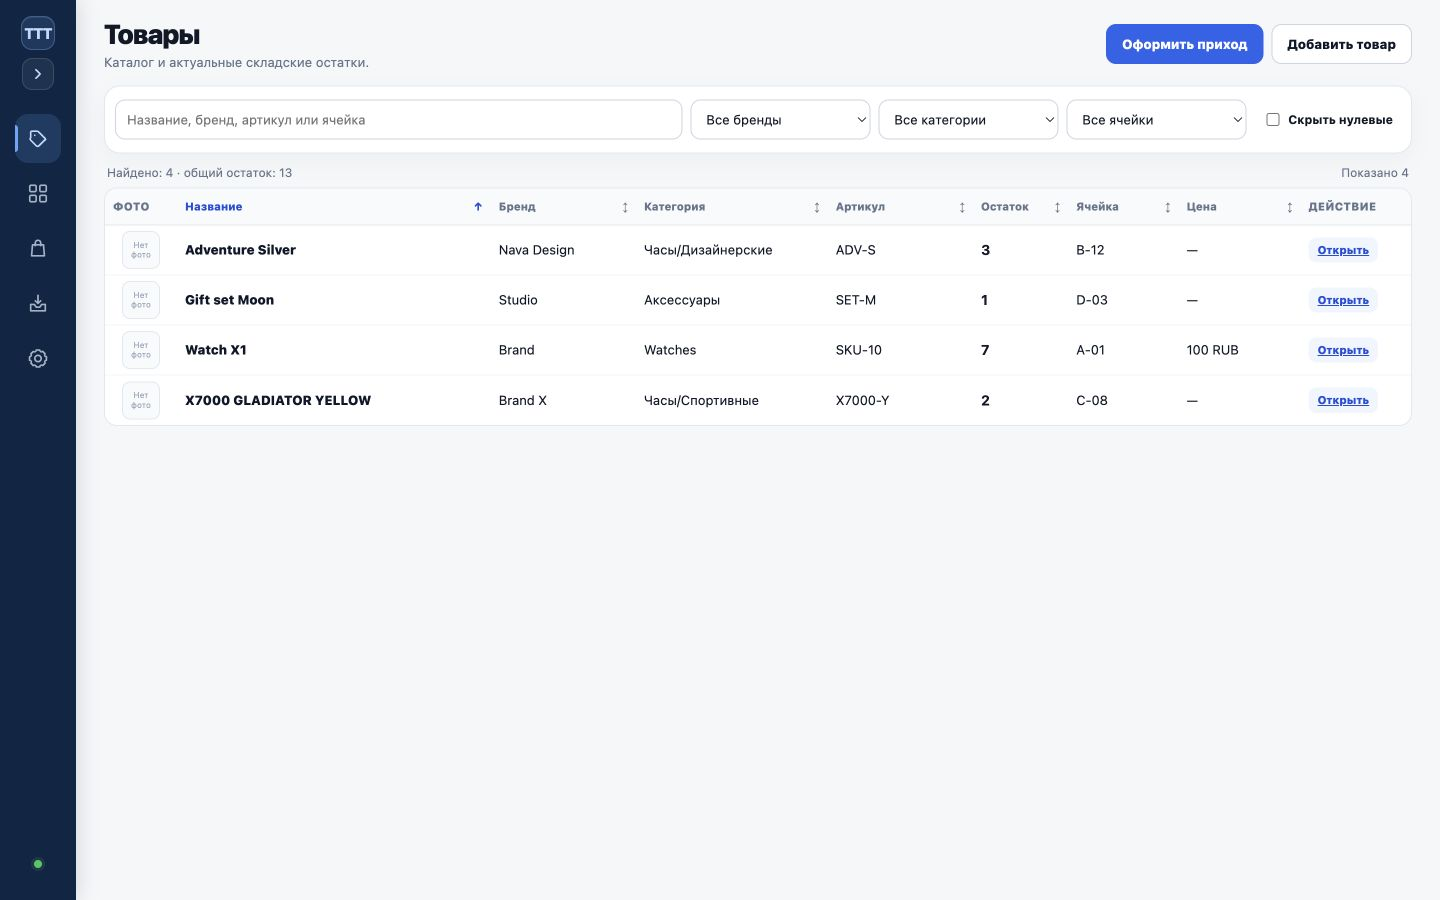
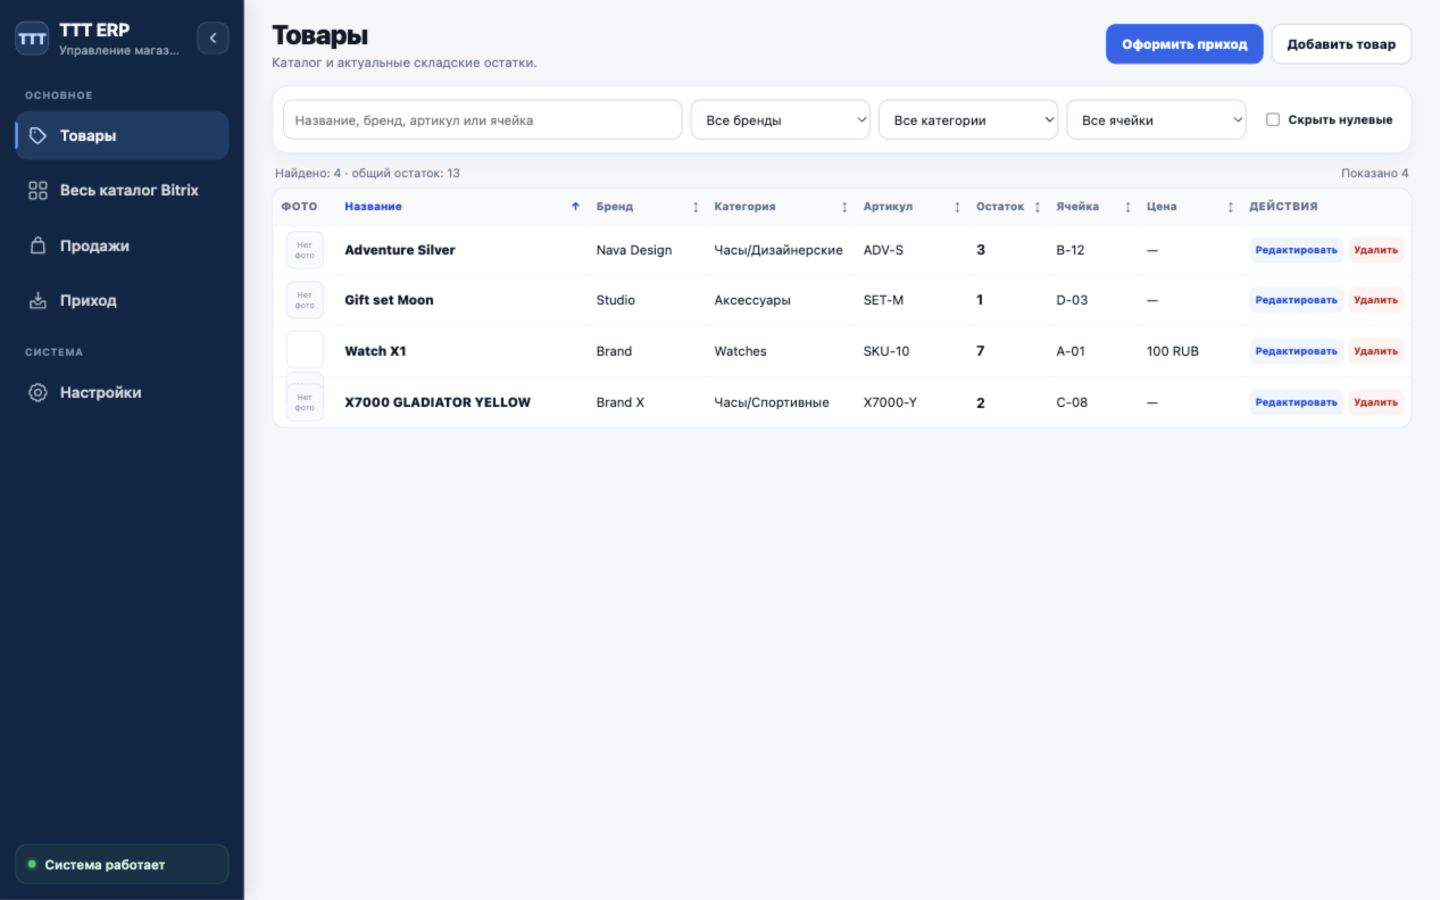
Restore product edit and delete actions

diff --git a/app/templates/_excel_products_results.html b/app/templates/_excel_products_results.html
@@ -8,21 +8,21 @@
     <table class="products-table" data-products-table>
         <colgroup>
             <col data-column="photo" style="width:62px">
-            <col data-column="name" style="width:270px">
-            <col data-column="brand" style="width:125px">
-            <col data-column="category" style="width:165px">
-            <col data-column="article" style="width:125px">
-            <col data-column="stock" style="width:82px">
-            <col data-column="cell" style="width:95px">
-            <col data-column="price" style="width:105px">
-            <col data-column="actions" style="width:95px">
+            <col data-column="name" style="width:245px">
+            <col data-column="brand" style="width:115px">
+            <col data-column="category" style="width:145px">
+            <col data-column="article" style="width:110px">
+            <col data-column="stock" style="width:78px">
+            <col data-column="cell" style="width:88px">
+            <col data-column="price" style="width:100px">
+            <col data-column="actions" style="width:165px">
         </colgroup>
         <thead><tr>
             <th data-column-key="photo">Фото</th>
             {% for field, label in [('name', 'Название'), ('brand', 'Бренд'), ('category', 'Категория'), ('article', 'Артикул'), ('stock', 'Остаток'), ('cell', 'Ячейка'), ('price', 'Цена')] %}
             <th data-column-key="{{ field }}"><button class="products-sort-button{% if catalog.sort_by == field %} is-active{% endif %}" type="button" data-sort-field="{{ field }}">{{ label }} <span aria-hidden="true">{% if catalog.sort_by == field %}{{ '↑' if catalog.sort_dir == 'asc' else '↓' }}{% else %}↕{% endif %}</span></button></th>
             {% endfor %}
-            <th data-column-key="actions">Действие</th>
+            <th data-column-key="actions">Действия</th>
         </tr></thead>
         <tbody>
         {% for item in catalog['items'] %}
@@ -38,7 +38,16 @@
             <td class="products-stock-cell{% if item.stock <= 0 %} is-zero{% endif %}"><strong>{{ '%g'|format(item.stock) }}</strong></td>
             <td>{{ item.cell or '—' }}</td>
             <td>{% if item.bitrix_price_amount %}{{ item.bitrix_price_amount }} {{ item.bitrix_price_currency }}{% else %}—{% endif %}</td>
-            <td><a class="products-action-button" data-product-detail-link href="{{ url_for('excel_product_page', product_id=item.id, return_to=current_products_url) }}">Открыть</a></td>
+            <td>
+                <div class="products-actions">
+                    <a class="products-action-button" data-product-detail-link href="{{ url_for('excel_product_page', product_id=item.id, return_to=current_products_url) }}">Редактировать</a>
+                    <form class="products-action-form" method="post" action="{{ url_for('excel_product_delete', product_id=item.id) }}" onsubmit="return confirm('Удалить этот товар? Действие нельзя отменить.');">
+                        <input type="hidden" name="return_to" value="{{ current_products_url }}">
+                        <input type="hidden" name="confirm_delete" value="1">
+                        <button class="products-action-button products-action-delete" type="submit">Удалить</button>
+                    </form>
+                </div>
+            </td>
         </tr>
         {% endfor %}
         </tbody>

diff --git a/app/templates/excel_products.html b/app/templates/excel_products.html
@@ -41,7 +41,10 @@
         .products-mobile-meta { display: none; margin-top: 3px; color: #64748b; font-size: 10px; }
         .products-stock-cell strong { font-size: 14px; }
         .products-stock-cell.is-zero strong { color: #94a3b8; }
-        .products-action-button { display: inline-flex; padding: 6px 9px; border-radius: 8px; background: #eff6ff; color: #1d4ed8; font-size: 11px; font-weight: 800; }
+        .products-actions { display: flex; align-items: center; gap: 4px; }
+        .products-action-form { margin: 0; }
+        .products-action-button { display: inline-flex; min-height: 26px; align-items: center; padding: 4px 6px; border: 0; border-radius: 7px; background: #eff6ff; color: #1d4ed8; font: inherit; font-size: 10px; font-weight: 800; line-height: 1; text-decoration: none; cursor: pointer; }
+        .products-action-delete { background: #fef2f2; color: #b91c1c; }
         .products-pagination { display: flex; justify-content: space-between; align-items: center; margin-top: 10px; }
         @media (max-width: 1080px) {
             .products-filter-form { grid-template-columns: minmax(240px, 1fr) repeat(2, minmax(120px, 1fr)); }
@@ -74,6 +77,10 @@
                 <a class="button" href="/warehouse?open_add=1#warehouseAddCard">Добавить товар</a>
             </div>
         </div>
+
+        {% if request.args.get('message') %}
+        <div class="archive-alert{% if request.args.get('notice') == 'success' %} success-alert{% endif %}" role="alert">{{ request.args.get('message') }}</div>
+        {% endif %}
 
         <section class="panel products-toolbar">
             <form id="productsFilterForm" class="products-filter-form" method="get" action="{{ url_for('excel_products_page') }}">
@@ -184,7 +191,11 @@
         const columns = Array.from(table.querySelectorAll("col[data-column]"));
         const headers = Array.from(table.querySelectorAll("thead th[data-column-key]"));
         const saved = storedWidths();
-        columns.forEach(function (column) { if (saved[column.dataset.column]) column.style.width = saved[column.dataset.column] + "px"; });
+        columns.forEach(function (column) {
+            if (column.dataset.column !== "actions" && saved[column.dataset.column]) {
+                column.style.width = saved[column.dataset.column] + "px";
+            }
+        });
         headers.slice(0, -1).forEach(function (header, index) {
             const handle = document.createElement("span");
             handle.className = "products-column-resize";

diff --git a/tests/test_excel_product_catalog.py b/tests/test_excel_product_catalog.py
@@ -391,6 +391,111 @@ class ExcelProductCatalogTest(unittest.TestCase):
         moysklad.assert_not_called()
         bitrix.assert_not_called()
 
+    def test_product_actions_use_edit_form_and_confirmed_delete_urls(self):
+        self.apply_initial()
+        product_id = self.catalog.list_products(query="Watch X1")["items"][0]["id"]
+        from app import web
+        web.app.config["TESTING"] = True
+        with mock.patch.dict("os.environ", {"CATALOG_DATABASE_PATH": str(self.path)}):
+            response = web.app.test_client().get("/products?per_page=100")
+        rendered = response.get_data(as_text=True)
+        self.assertEqual(response.status_code, 200)
+        self.assertIn(
+            '<a class="products-action-button" data-product-detail-link '
+            'href="/products/{}?return_to='.format(product_id),
+            rendered,
+        )
+        self.assertIn(
+            'action="/products/{}/delete"'.format(product_id), rendered
+        )
+        self.assertIn(">Редактировать</a>", rendered)
+        self.assertIn(">Удалить</button>", rendered)
+        self.assertIn("return confirm('Удалить этот товар?", rendered)
+        self.assertNotIn(">Открыть</a>", rendered)
+
+    def test_product_delete_requires_confirmation_and_blocks_audit_links(self):
+        self.apply_initial()
+        product_id = self.catalog.list_products(query="Watch X1")["items"][0]["id"]
+        from app import web
+        web.app.config["TESTING"] = True
+        empty_references = (
+            mock.patch.object(web, "load_manual_sales", return_value=[]),
+            mock.patch.object(web, "load_stock_operations", return_value=[]),
+            mock.patch.object(web, "load_receipts", return_value=[]),
+        )
+        with mock.patch.dict("os.environ", {"CATALOG_DATABASE_PATH": str(self.path)}), \
+                empty_references[0], empty_references[1], empty_references[2]:
+            client = web.app.test_client()
+            missing_confirmation = client.post(
+                "/products/{}/delete".format(product_id),
+                data={"return_to": "/products"},
+                follow_redirects=True,
+            )
+            blocked = client.post(
+                "/products/{}/delete".format(product_id),
+                data={"return_to": "/products", "confirm_delete": "1"},
+                follow_redirects=True,
+            )
+        self.assertIn(
+            "требуется явное подтверждение",
+            missing_confirmation.get_data(as_text=True),
+        )
+        self.assertIn("Товар нельзя удалить", blocked.get_data(as_text=True))
+        self.assertIsNotNone(self.catalog.get_product(product_id))
+
+    def test_product_delete_removes_only_unreferenced_zero_stock_card(self):
+        self.service.apply(
+            [result(2, "Unused zero", 0)], "5" * 64, "unused-zero.xlsx"
+        )
+        product_id = self.catalog.list_products(query="Unused zero")["items"][0]["id"]
+        with self.database.connect() as connection:
+            connection.execute(
+                "DELETE FROM catalog_excel_batch_rows WHERE product_id = ?",
+                (product_id,),
+            )
+        from app import web
+        web.app.config["TESTING"] = True
+        related_payloads = (
+            ([{"product_id": str(product_id)}], [], []),
+            ([], [{"product_id": str(product_id)}], []),
+            ([], [], [{"positions": [{"product_id": str(product_id)}]}]),
+        )
+        for sales, operations, receipts in related_payloads:
+            with self.subTest(
+                sales=bool(sales), operations=bool(operations), receipts=bool(receipts)
+            ), mock.patch.dict(
+                "os.environ", {"CATALOG_DATABASE_PATH": str(self.path)}
+            ), mock.patch.object(
+                web, "load_manual_sales", return_value=sales
+            ), mock.patch.object(
+                web, "load_stock_operations", return_value=operations
+            ), mock.patch.object(
+                web, "load_receipts", return_value=receipts
+            ):
+                blocked = web.app.test_client().post(
+                    "/products/{}/delete".format(product_id),
+                    data={"return_to": "/products", "confirm_delete": "1"},
+                    follow_redirects=True,
+                )
+            self.assertIn("Товар нельзя удалить", blocked.get_data(as_text=True))
+            self.assertIsNotNone(self.catalog.get_product(product_id))
+        with mock.patch.dict("os.environ", {"CATALOG_DATABASE_PATH": str(self.path)}), \
+                mock.patch.object(web, "load_manual_sales", return_value=[]), \
+                mock.patch.object(web, "load_stock_operations", return_value=[]), \
+                mock.patch.object(web, "load_receipts", return_value=[]), \
+                mock.patch.object(web, "MoySkladClient") as moysklad, \
+                mock.patch.object(web, "BitrixCatalogReadOnlyClient") as bitrix:
+            response = web.app.test_client().post(
+                "/products/{}/delete".format(product_id),
+                data={"return_to": "/products", "confirm_delete": "1"},
+                follow_redirects=True,
+            )
+        self.assertEqual(response.status_code, 200)
+        self.assertIn("Товар удалён", response.get_data(as_text=True))
+        self.assertIsNone(self.catalog.get_product(product_id))
+        moysklad.assert_not_called()
+        bitrix.assert_not_called()
+
     def test_partial_products_response_keeps_daily_catalog_fields_only(self):
         self.apply_initial()
         from app import web

diff --git a/app/web.py b/app/web.py
@@ -17,7 +17,10 @@ from app.catalog_db import CatalogDatabase
 from app.clients.bitrix_catalog import BitrixCatalogReadOnlyClient, BitrixCatalogReadOnlyError
 from app.services.bitrix_catalog_importer import BitrixCatalogImporter
 from app.services.catalog_reader import CatalogReader
-from app.services.excel_product_catalog import ExcelProductCatalog
+from app.services.excel_product_catalog import (
+    ExcelProductCatalog,
+    ProductDeleteBlockedError,
+)
 from app.services.excel_receipt_import import (
     MAX_EXCEL_FILE_SIZE,
     ExcelDraftBlockedError,
@@ -8141,6 +8144,44 @@ def _safe_products_return_to(value):
     return url_for("excel_products_page")
 
 
+def _products_redirect_with_notice(return_to, notice, message):
+    separator = "&" if "?" in return_to else "?"
+    return redirect(
+        return_to + separator + urlencode({"notice": notice, "message": message})
+    )
+
+
+def _excel_product_external_references(product_id):
+    product_id = str(int(product_id))
+    references = []
+    if any(
+        str(item.get("product_id") or "") == product_id
+        for item in load_manual_sales()
+        if isinstance(item, dict)
+    ):
+        references.append("продажа")
+    if any(
+        str(item.get("product_id") or "") == product_id
+        for item in load_stock_operations()
+        if isinstance(item, dict)
+    ):
+        references.append("складская операция")
+    for receipt in load_receipts():
+        if not isinstance(receipt, dict):
+            continue
+        if str(receipt.get("product_id") or "") == product_id:
+            references.append("приход")
+            break
+        if any(
+            str(position.get("product_id") or "") == product_id
+            for position in receipt.get("positions") or []
+            if isinstance(position, dict)
+        ):
+            references.append("приход")
+            break
+    return references
+
+
 @app.route("/products")
 def excel_products_page():
     match_status = (request.args.get("match_status") or "all").strip()
@@ -8269,6 +8310,25 @@ def excel_product_page(product_id):
         "excel_product_detail.html", product=product, match_labels=EXCEL_MATCH_LABELS,
         return_to=_safe_products_return_to(request.args.get("return_to")),
     )
+
+
[email redacted]("/products/<int:product_id>/delete", methods=["POST"])
+def excel_product_delete(product_id):
+    return_to = _safe_products_return_to(request.form.get("return_to"))
+    if request.form.get("confirm_delete") != "1":
+        return _products_redirect_with_notice(
+            return_to, "error", "Удаление отменено: требуется явное подтверждение."
+        )
+    try:
+        ExcelProductCatalog().delete_product(
+            product_id,
+            external_references=_excel_product_external_references(product_id),
+        )
+    except ProductDeleteBlockedError as error:
+        return _products_redirect_with_notice(return_to, "error", str(error))
+    except (TypeError, ValueError):
+        return _products_redirect_with_notice(return_to, "error", "Товар не найден.")
+    return _products_redirect_with_notice(return_to, "success", "Товар удалён.")
 
 
 @app.route("/products/<int:product_id>/match", methods=["POST"])

diff --git a/app/services/excel_product_catalog.py b/app/services/excel_product_catalog.py
@@ -5,6 +5,7 @@ Bitrix or MoySklad clients and therefore cannot change either external system.
 """
 
 import json
+import sqlite3
 import uuid
 from datetime import datetime, timezone
 
@@ -48,6 +49,10 @@ class BatchBlockedError(ValueError):
     def __init__(self, message, blocked_rows=None):
         ValueError.__init__(self, message)
         self.blocked_rows = list(blocked_rows or [])
+
+
+class ProductDeleteBlockedError(ValueError):
+    pass
 
 
 def utc_now():
@@ -719,6 +724,56 @@ class ExcelProductCatalog:
                 (int(product_id),),
             ).fetchone()
         return self._prepare_product(dict(row)) if row else None
+
+    def delete_product(self, product_id, external_references=None):
+        """Delete only an unreferenced zero-stock card.
+
+        Existing batch, receipt, stock and match records are audit data. They
+        must never be cascaded or detached just to remove a card from the UI.
+        """
+        external_references = list(external_references or [])
+        self.database.initialize()
+        try:
+            with self.database.transaction() as connection:
+                product = connection.execute(
+                    "SELECT * FROM catalog_excel_products WHERE id = ? AND active = 1",
+                    (int(product_id),),
+                ).fetchone()
+                if product is None:
+                    raise ValueError("Товар не найден.")
+
+                references = list(external_references)
+                reference_checks = (
+                    ("приход", "catalog_excel_receipt_rows"),
+                    ("операция прихода", "catalog_excel_receipt_operations"),
+                    ("строка batch-аудита", "catalog_excel_batch_rows"),
+                    ("складская операция", "catalog_excel_stock_operations"),
+                    ("история сопоставления", "catalog_excel_match_audit"),
+                )
+                for label, table in reference_checks:
+                    count = connection.execute(
+                        "SELECT COUNT(*) FROM {} WHERE product_id = ?".format(table),
+                        (int(product_id),),
+                    ).fetchone()[0]
+                    if count:
+                        references.append(label)
+
+                if float(product["stock"] or 0) != 0:
+                    references.append("ненулевой остаток")
+                if references:
+                    raise ProductDeleteBlockedError(
+                        "Товар нельзя удалить: сохранены связанные данные ({0}).".format(
+                            ", ".join(sorted(set(references)))
+                        )
+                    )
+
+                connection.execute(
+                    "DELETE FROM catalog_excel_products WHERE id = ?", (int(product_id),)
+                )
+        except sqlite3.IntegrityError:
+            raise ProductDeleteBlockedError(
+                "Товар нельзя удалить: он используется в связанных документах или аудите."
+            )
 
     def confirm_match(self, product_id, catalog_product_id):
         return self._change_match(product_id, "confirm_bitrix", catalog_product_id)